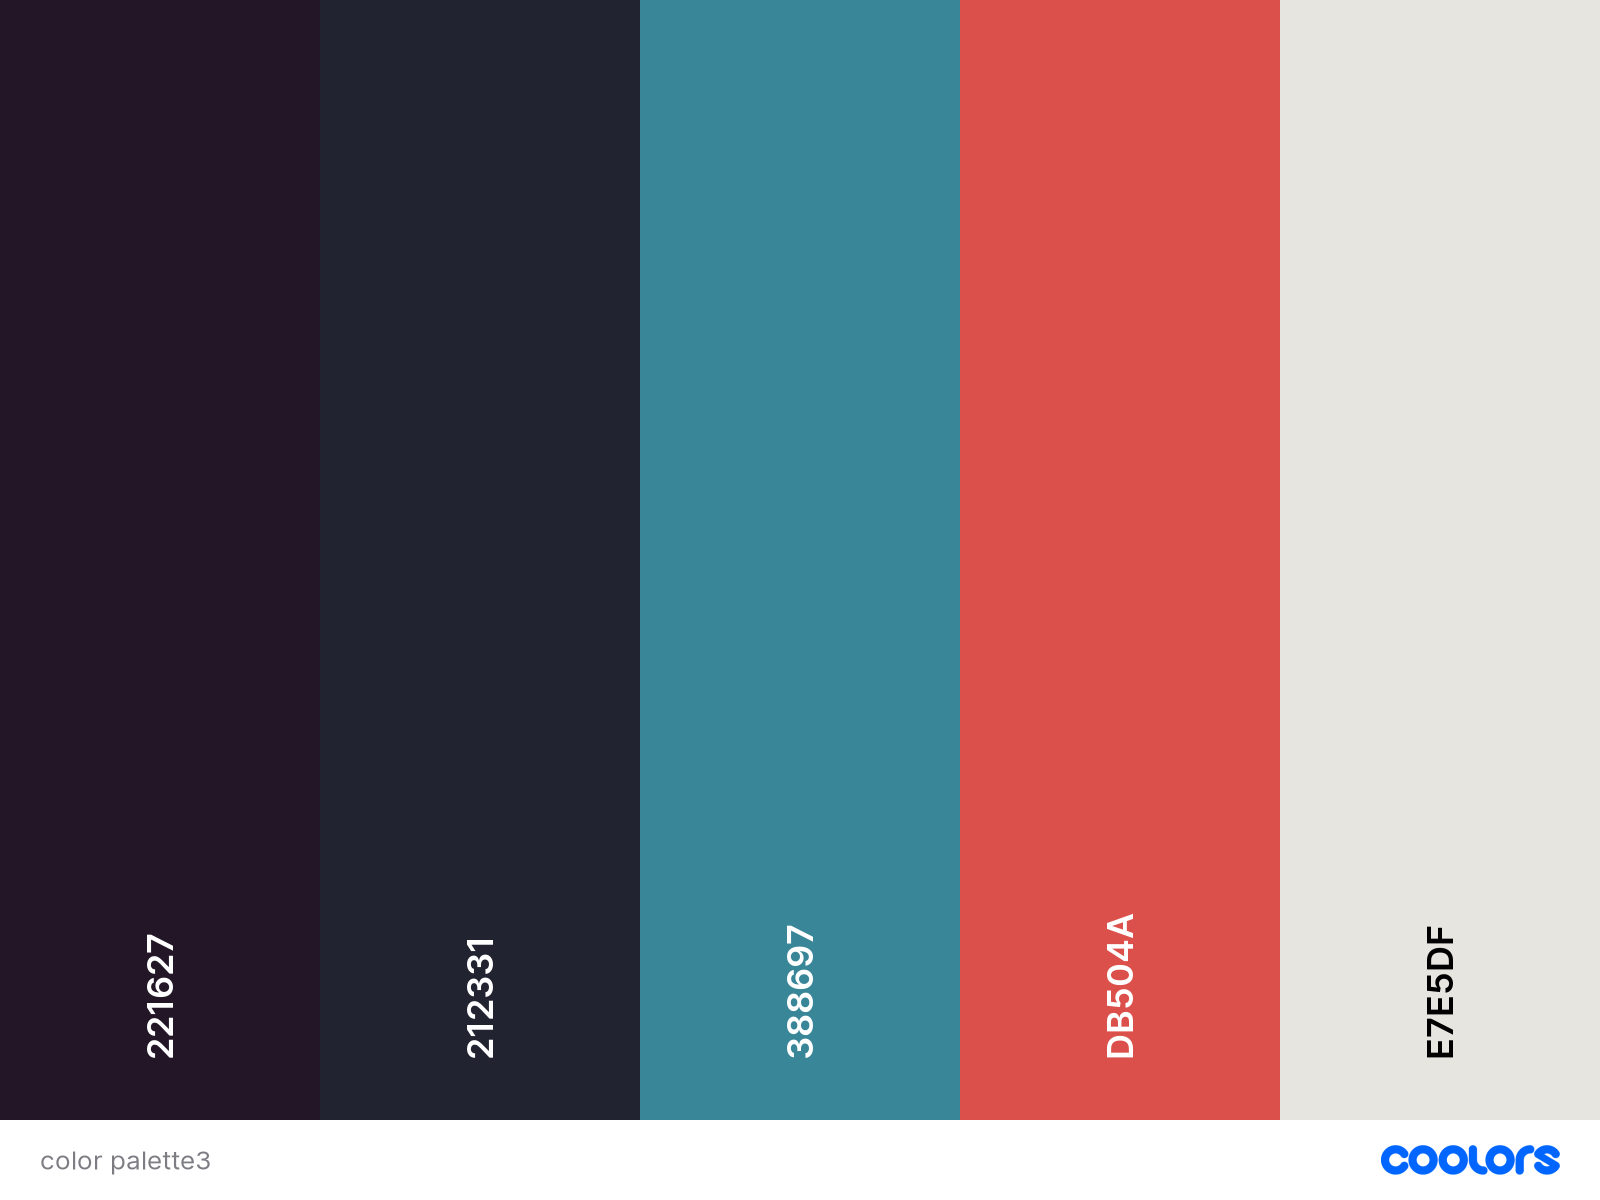
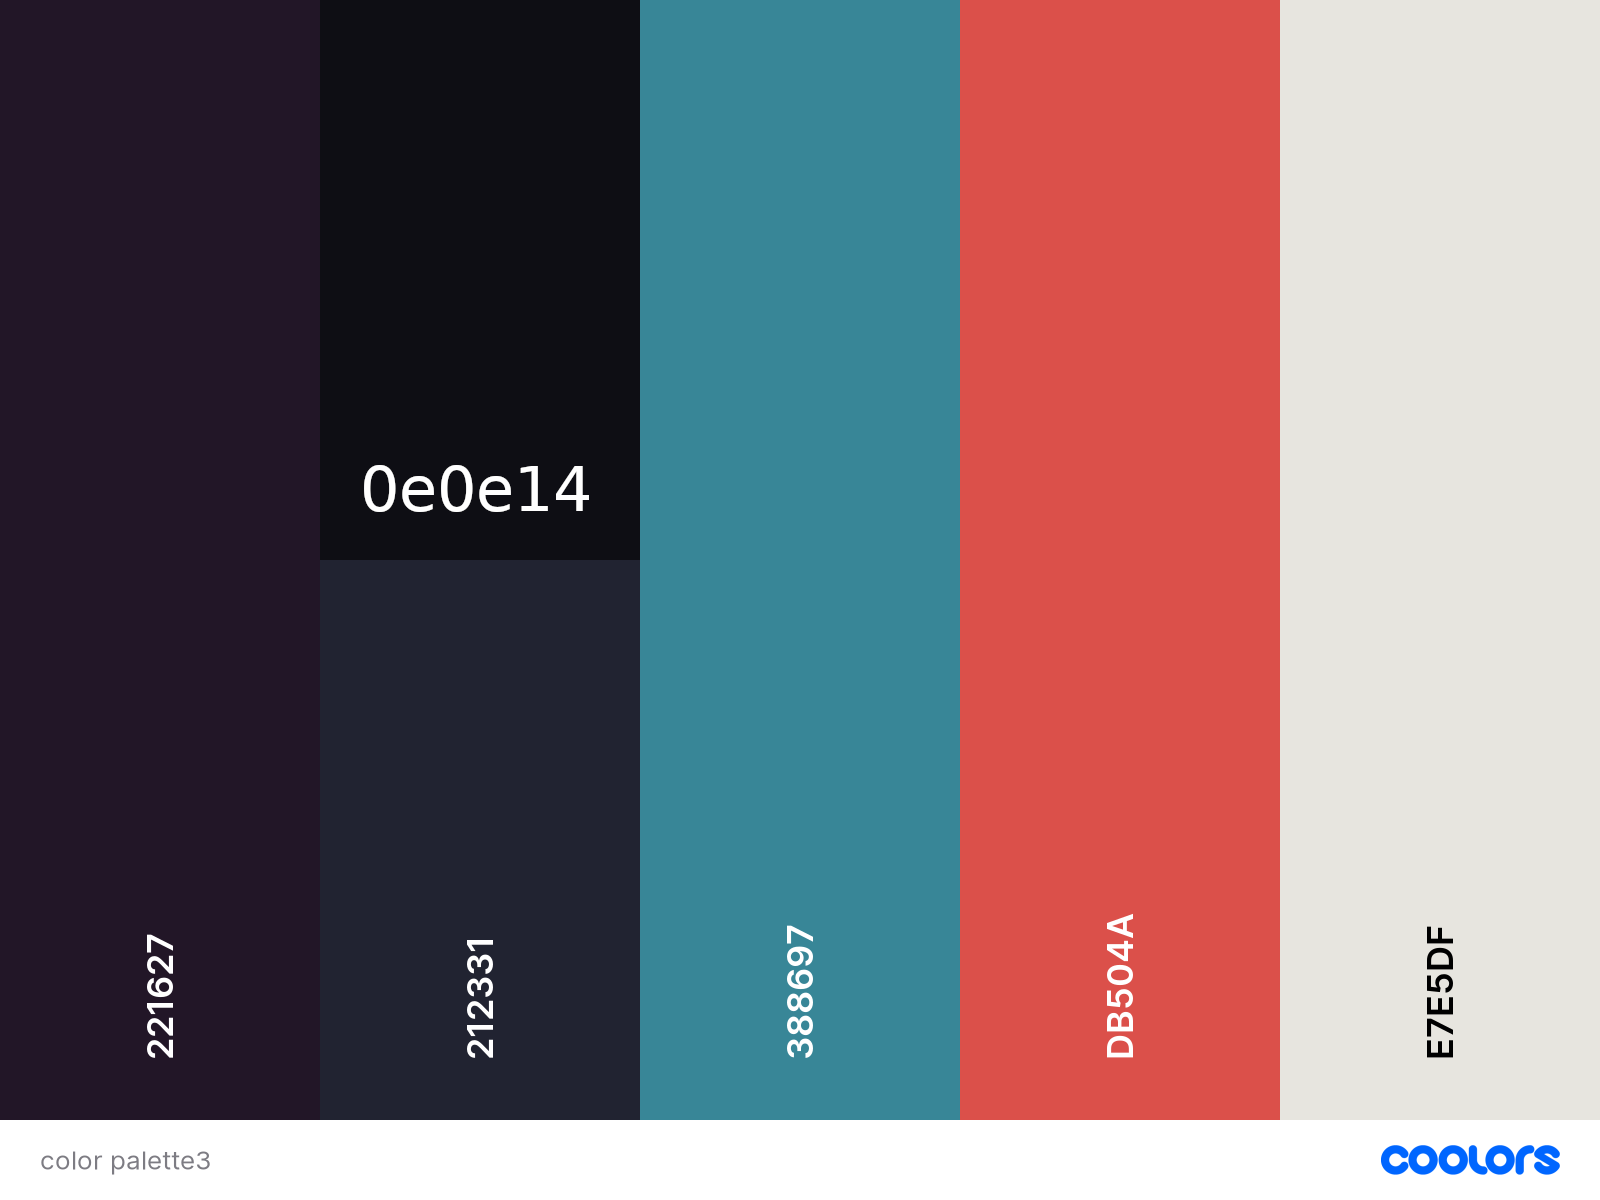
updated st color, added new color

Changed region(s): [[0.1875, 0.0, 0.4062, 0.4933]]

diff --git a/st/config.def.h b/st/config.def.h
@@ -94,7 +94,7 @@ char *termname = "st-256color";
 unsigned int tabspaces = 8;
 
 /* bg opacity */
-float alpha = 0.8, alphaUnfocused = 0.6;
+float alpha = 0.9, alphaUnfocused = 0.8;
 
 /* Terminal colors (16 first used in escape sequence) */
 static const char *colorname[] = {
@@ -125,7 +125,7 @@ static const char *colorname[] = {
 	"#555555",
 	"gray90", /* default foreground colour */
 	"black", /* default background colour */
-	"#212331"
+	"#0e0e14"
 };
 
 

diff --git a/st/config.h b/st/config.h
@@ -94,7 +94,7 @@ char *termname = "st-256color";
 unsigned int tabspaces = 8;
 
 /* bg opacity */
-float alpha = 0.8, alphaUnfocused = 0.6;
+float alpha = 0.9, alphaUnfocused = 0.8;
 
 /* Terminal colors (16 first used in escape sequence) */
 static const char *colorname[] = {
@@ -125,7 +125,7 @@ static const char *colorname[] = {
 	"#555555",
 	"gray90", /* default foreground colour */
 	"black", /* default background colour */
-	"#212331"
+	"#0e0e14"
 };
 
 
